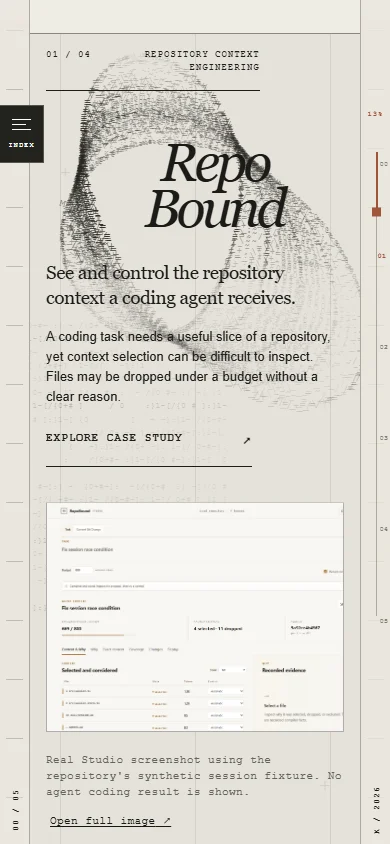
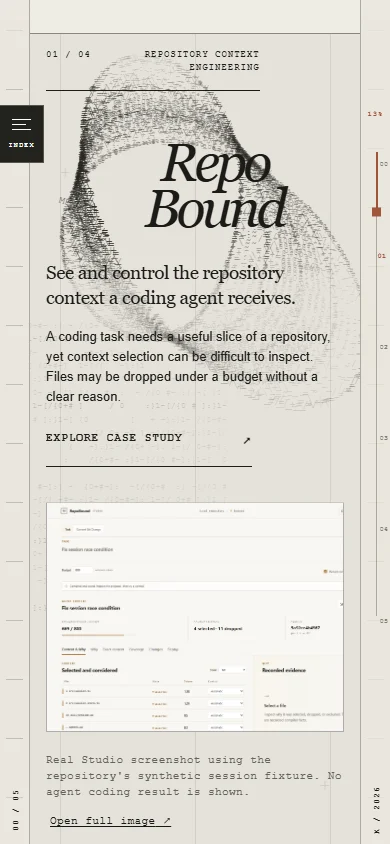
fix: preserve loop-first intro on slower loads

diff --git a/src/components/ascii-context-loop.tsx b/src/components/ascii-context-loop.tsx
@@ -56,6 +56,7 @@ export function AsciiContextLoop() {
       ".v2-education-art, .v2-education-copy, .v2-method-grid, " +
       ".v2-experience, .v2-capabilities, .v2-visual-heading, .v21-gallery-window, .v2-contact-body",
     )];
+    const heroFrame = document.querySelector(".v2-hero .v2-frame");
     const updateEnvironment = () => {
       const middleY = window.innerHeight / 2;
       const current = chapterNodes.find(({ element }) => {
@@ -65,7 +66,7 @@ export function AsciiContextLoop() {
       });
       const zone = current?.zone ?? "hero";
       const environment: LoopEnvironment = { dark: current?.dark ?? false, strength: current?.strength ?? 1, masks: [] };
-      if (motion.matches || elapsed >= 1.05) {
+      if (motion.matches || introMasksApplied) {
         for (const node of maskNodes) {
           const rect = node.getBoundingClientRect();
           if (rect.bottom < -52 || rect.top > window.innerHeight + 52) continue;
@@ -105,7 +106,8 @@ export function AsciiContextLoop() {
       previousTime = now;
       const minimumInterval = detail < 1 ? 62 : 58;
       if (now - previousDraw >= minimumInterval) {
-        if (elapsed >= 1.05 && !introMasksApplied) {
+        if (!introMasksApplied && (window.scrollY > 100
+          || (heroFrame && Number.parseFloat(getComputedStyle(heroFrame).opacity) > .02))) {
           introMasksApplied = true;
           updateEnvironment();
         }

diff --git a/src/app/v2.css b/src/app/v2.css
@@ -484,10 +484,10 @@ body:has(.v2-home) .site-footer { display: none; }
 .v2-global-loop[data-loop-phase="fallback"] .v23-loop-fallback { display: block; }
 .v2-hero-statement { background: linear-gradient(90deg, rgba(235,232,226,.96), rgba(235,232,226,.80)); padding: 7px 10px 7px 0; }
 @keyframes v21-hero-paper { 0% { background: rgba(233,230,223,.08); } 30% { background: rgba(233,230,223,.25); } 100% { background: rgba(233,230,223,.68); } }
-.v2-hero .v2-frame { animation: v21-page-arrive .6s 1.4s ease-out both; }
+.v2-hero .v2-frame { animation: v21-page-arrive .6s 1.8s ease-out both; }
 .v2-hero { animation: v21-hero-paper 2.05s ease-out both; }
-.v2-hero .v2-pattern { animation: v21-page-arrive .55s 1.45s ease-out both; }
-.v2-rail, .v2-nav-trigger, .v21-language-switch:not(.v21-language-switch--dialog) { animation: v21-page-arrive .6s 1.35s ease-out both; }
+.v2-hero .v2-pattern { animation: v21-page-arrive .55s 1.85s ease-out both; }
+.v2-rail, .v2-nav-trigger, .v21-language-switch:not(.v21-language-switch--dialog) { animation: v21-page-arrive .6s 1.75s ease-out both; }
 @keyframes v21-page-arrive { from { opacity: 0; } to { opacity: 1; } }
 .v2-frame, .v2-scene .v2-frame { position: relative; z-index: 2; }
 .v2-pattern { z-index: 0; }

diff --git a/docs/V231_MOBIUS_RIBBON_REVIEW.md b/docs/V231_MOBIUS_RIBBON_REVIEW.md
@@ -4,8 +4,8 @@ The design was compared in local Chromium against the built static export at 144
 
 Education's numeric gate remains foreground on its dark chapter. Visual Practice images and captions remain unobscured. The background changes tone by section without becoming a new foreground object. See the [capture set](visual-qa/v231/README.md).
 
-The motion sample is Canvas only: two images 5.5 seconds apart changed 147,475 pixels at 1440px. Glyph positions advance around the single surface, whereas the silhouette stays fixed. The pointer sample includes the elapsed time between captures and must not be read as a pointer-only measurement. The same local capture recorded 2.20 seconds of browser task time and 1.11 seconds of script time over that 5.5-second interval; this is a local headless Chromium sample, not a physical-device benchmark.
+The motion sample is Canvas only: two images 5.5 seconds apart changed 147,085 pixels at 1440px. Glyph positions advance around the single surface, whereas the silhouette stays fixed. The pointer sample includes the elapsed time between captures and must not be read as a pointer-only measurement. The same local capture recorded 2.08 seconds of browser task time and 1.12 seconds of script time over that 5.5-second interval; this is a local headless Chromium sample, not a physical-device benchmark.
 
-The first full E2E run exposed a reduced-motion transition issue: Chromium reported the new media preference without delivering the subscribed change event. A bounded preference reconciliation now updates the renderer in either direction; the focused regression passed afterward. Full-suite results are recorded in the delivery report and must be checked against the final commit.
+The first full local E2E run exposed a reduced-motion transition issue: Chromium reported the new media preference without delivering the subscribed change event. A bounded preference reconciliation now updates the renderer in either direction. The first hosted E2E run passed with one flaky intro ordering retry: on a slow runner the Hero animation started 67ms before the first Canvas glyph. The Hero and rail arrival were moved 0.4s later. The capture script now waits for actual formation and Hero opacity, and content masks follow visible Hero content. The final hosted result must be checked against the updated commit.
 
 Known limits: the fixed point of view favors the open strip on the left, while the return is intentionally lighter. The settled mobile Hero shares its limited upper space with `kallist` and navigation, so the strip is clearer during the isolated intro than over content. Physical phone, Safari, Firefox and screen-reader behavior are not established by these Chromium captures.

diff --git a/docs/V231_MOBIUS_RIBBON_DESIGN.md b/docs/V231_MOBIUS_RIBBON_DESIGN.md
@@ -14,7 +14,7 @@ Seeded ASCII symbols sample the surface. Denser, guaranteed glyph filaments foll
 
 Glyphs advance in the longitudinal surface coordinate after the intro, with a small speed difference between interior and edge lanes. Bounded transverse drift and rare within-family character substitution add variation. The movement continues without pointer input; pointer influence is local. The renderer caps DPR and draw cadence, adapts detail to viewport width, and stops drawing when the page is hidden.
 
-The opening sequence still forms the character surface before the Hero appears. Text and image masks now activate before the Hero fades in, including the portrait region. Mobile projection uses a shorter vertical span to keep the whole fold visible above the portrait. Education, gallery and project media retain content precedence. A fixed interval reconciles `prefers-reduced-motion` state when a browser updates the media query without delivering its change event; reduced motion draws one static complete frame.
+The opening sequence still forms the character surface before the Hero appears. Text and image masks activate when the Hero begins to appear, including the portrait region; the loop therefore stays whole during the isolated intro. Mobile projection uses a shorter vertical span to keep the whole fold visible above the portrait. Education, gallery and project media retain content precedence. A fixed interval reconciles `prefers-reduced-motion` state when a browser updates the media query without delivering its change event; reduced motion draws one static complete frame.
 
 ## Boundaries
 
